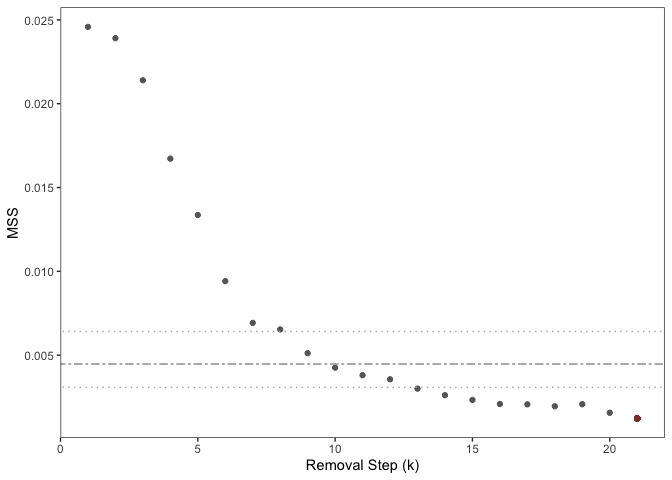
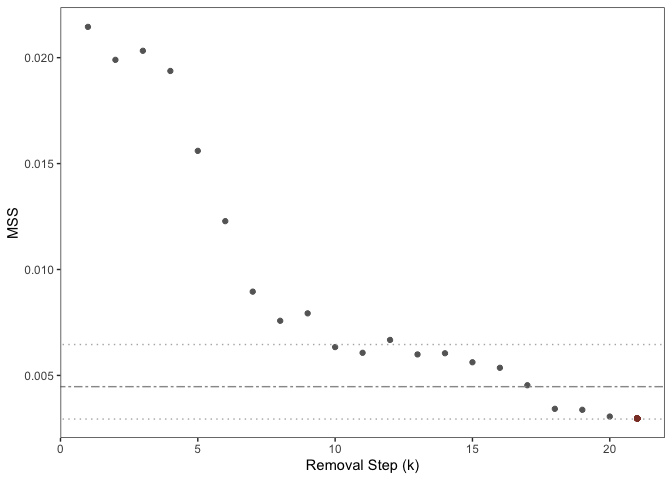
Update

diff --git a/README.md b/README.md
@@ -1,3 +1,8 @@
+README
+================
+Michael B. Sohn
+5/15/2023
+
 ## OPTIMEM: Optimal Normalization Method for Sparse Compositional Data
 
 The optimem function determines non-absolutely, differentially abundant
@@ -10,7 +15,10 @@ Note: OPTIMEM is computationally intensive. It may take several hours,
 depending on the number of taxa and the proportion of removed taxa at
 each removal step (eta). As a default, eta is set at 0.1. It has to be
 reduced if the computed MSS does not decrease as the sequential removal
-step increases. We also recommend using large numbers of the random selection and amalgamation steps (e.g., n.b=500, n.r=1000). When eta is set at a very small value (< 1/number of taxa), one taxon will be removed at each removal step and n.b will be ignored.
+step increases. We also recommend using large numbers of the random
+selection and amalgamation steps (e.g., n.b=500, n.r=1000). When eta is
+set at a very small value (\< 1/(number of taxa)), one taxon will be
+removed at each removal step and n.b will be ignored.
 
 ### Installation
 
@@ -21,7 +29,7 @@ devtools::install_github(“mbsohn/optimem”)
 ### Example: Determine non-ADA taxa
 
 ``` r
-library(tidyverse); library(optimem)
+library(optimem)
 # Simulate a dataset using a negative binomial model
 set.seed(2023)
 p <- 100; n.non.da <- sample(40:90, 1)
@@ -37,8 +45,7 @@ n.sample <- nrow(M); n.taxa <- ncol(M)
 y <- c(rep(1, n1), rep(2, n2))
 colnames(M) <- paste0("T", 1:n.taxa)
 true.da.taxa <- colnames(M)[which(mu1 != mu2)]
-
-# Run OPTIMEM:
+# Run OPTIMEM
 rslt <- optimem(M, y)
 ```
 
@@ -55,11 +62,12 @@ if(rslt$min_MSS < rslt$lower_limit_null){
 }
 ADA.test <- apply(MDA, 2, function(x) wilcox.test(x~y)$p.value)
 ADA.p <- p.adjust(ADA.test, method="BH")
-names(which(ADA.p < 0.05)) 
+names(which(ADA.p < 0.05))
 ```
 
-    ##  [1] "T1"  "T2"  "T5"  "T8"  "T9"  "T11" "T13" "T16" "T18" "T20" "T25" "T26"
-    ## [13] "T29" "T32" "T34" "T35" "T36" "T37" "T39" "T40" "T41" "T42" "T44" "T45"
+    ##  [1] "T1"  "T2"  "T5"  "T7"  "T8"  "T9"  "T10" "T11" "T13" "T14" "T16" "T18"
+    ## [13] "T20" "T25" "T26" "T29" "T32" "T34" "T35" "T36" "T37" "T39" "T40" "T41"
+    ## [25] "T42" "T44" "T45" "T91"
 
 To account for covariates, a probabilistic index model, which can be
 seen as the rank-equivalent of the general linear model, can be used.
